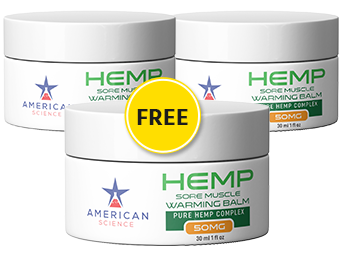
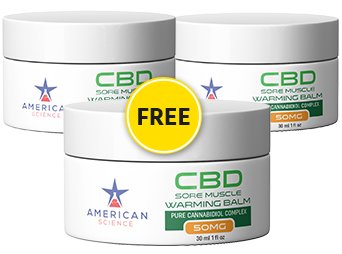
trying image changes

diff --git a/react/components/upsell/mobile/Upsell2Treatment1.js b/react/components/upsell/mobile/Upsell2Treatment1.js
@@ -83,7 +83,7 @@ class Upsell2Treatment1 extends React.PureComponent {
           <p className="with-txt">with</p>
           <p className="up-txt2">CBD Warming Balm</p>
           <img
-            src="/static/assets/images/upsell2-mobile/up-prod3.jpg"
+            src="/static/assets/images/upsell2-mobile/up2-combo.png"
             className="up-prod"
           />
           <div className="clearall" />

diff --git a/react/components/upsell/mobile/Upsell1.js b/react/components/upsell/mobile/Upsell1.js
@@ -55,7 +55,7 @@ class Upsell1Component extends React.PureComponent {
           <p className="with-txt">with</p>
           <p className="up-txt2">Maximum Strength CBD Capsules</p>
           <img
-            src="/static/assets/images/up1-bottle.png"
+            src="/static/assets/images/up-prod-1.jpg"
             className="up-prod"
             alt=""
           />
